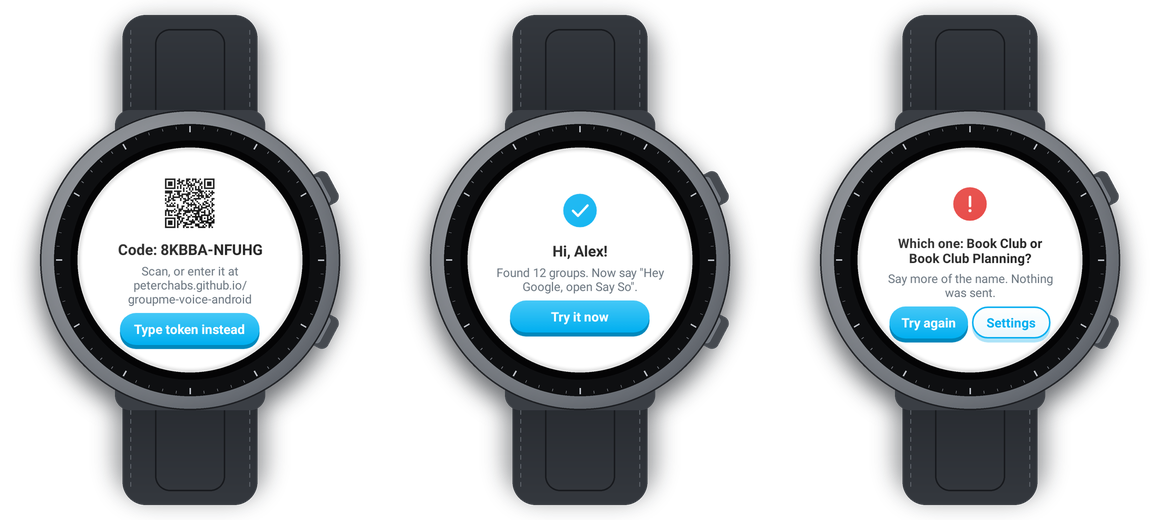
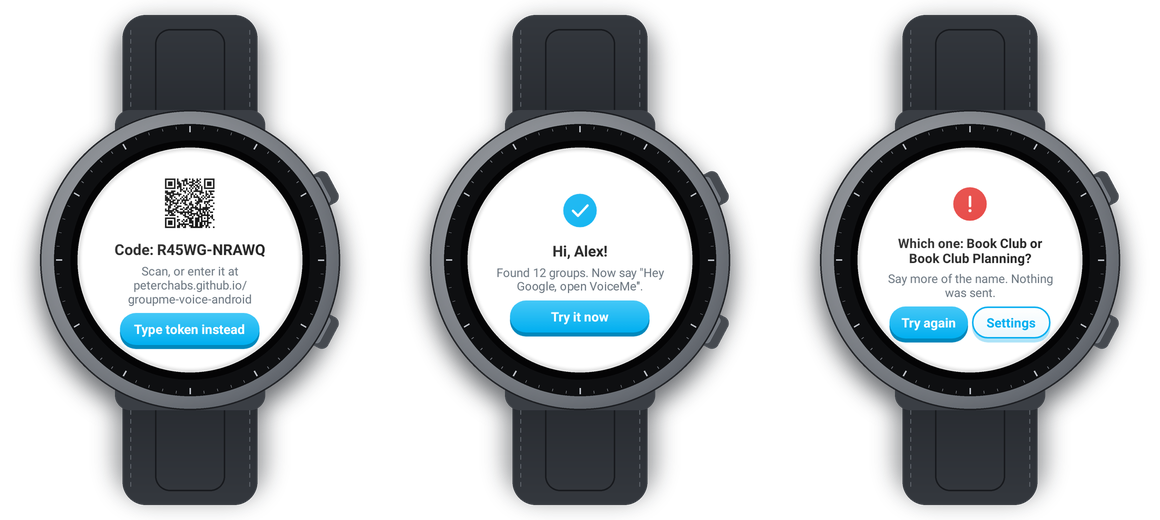
Site images and README links use the VoiceMe name

Changed region(s): [[0.0931, 0.3385, 0.2483, 0.4923], [0.4345, 0.5231, 0.5586, 0.5846]]

diff --git a/README.md b/README.md
@@ -36,7 +36,7 @@ A small app that lives on your watch and talks to GroupMe by itself.
 ### What you need
 
 - A **Galaxy Watch 4 or newer** (or any watch with Wear OS 3 or newer).
-- **An Android phone** for the free [VoiceMe phone app](#say-so-phone-app-android), which signs
+- **An Android phone** for the free [VoiceMe phone app](#voiceme-phone-app-android), which signs
   your watch in to GroupMe. (iPhones can't be used to sign in.)
 - Your GroupMe account. Sign in the way you always do: Google, Microsoft, Apple,
   email or phone number.
@@ -178,7 +178,7 @@ On your watch, go to **Settings** > **Developer options** and turn off
      **peterchabs.github.io/groupme-voice-android** and type the code from your watch.
 4. On the page:
    1. Don't have the VoiceMe phone app yet? Tap **Download for Android** and install
-      it (see [the phone app](#say-so-phone-app-android) for the steps).
+      it (see [the phone app](#voiceme-phone-app-android) for the steps).
    2. Tap **Open VoiceMe**. The phone app opens with your watch's code.
    3. Tap **Sign in with GroupMe** and sign in the way you always do. GroupMe's own
       sign-in opens inside the app.
